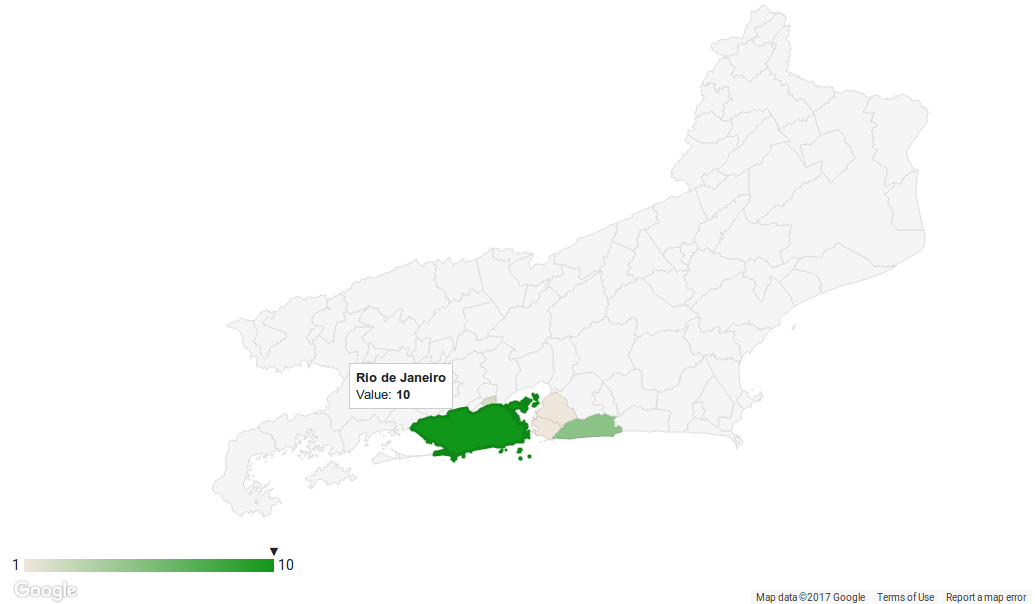
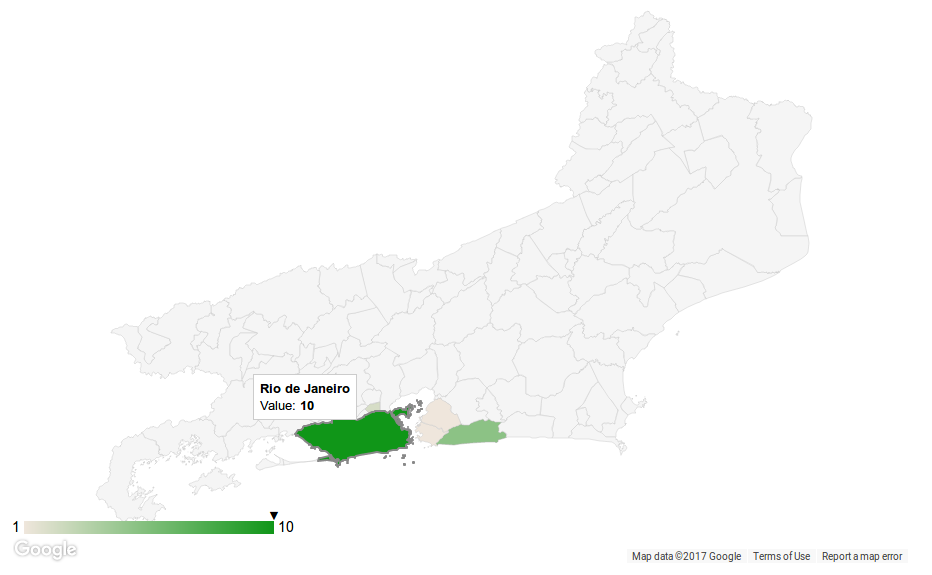
Updating `README.md` with usage and more one example image

diff --git a/README.md b/README.md
@@ -3,18 +3,81 @@ Geochart GeoJSON
 
 Create charts very similar to the [Google Charts geochart](https://developers.google.com/chart/interactive/docs/gallery/geochart), but with GeoJSON support.
 
-The Google Charts geochart is a very interesting project. However, it only generates predetermined maps (countries of the world, countries of a continent, states of a country). Althought there is possible to generate high resolution maps (cities of a state or metros of a city), these maps are only available for some specific USA regions.
+The Google Charts geochart is a very interesting project. However, it only generates predetermined maps.
 
-This project makes possible to draw geocharts in custom and high resolution maps thought GeoJSON.
+This project makes possible to draw geocharts in custom maps with boundaries defined using GeoJSON.
 
-The above printscreen shows a Geochart GeoJSON in the Rio de Janeiro state, in Brazil.
+The above printscreens show two examples: a Geochart GeoJSON of the Rio de Janeiro state (Brazil), and a Geochart GeoJSON of the Rio de Janeiro city (RJ, Brazil).
 
-![Geochart GeoJSON of Rio de Janeiro state, Brazil](readme_img/rio-state-chart-small.png)
+![Geochart GeoJSON of Rio de Janeiro state, Brazil](readme_img/rio-state-chart.png)
+![Geochart GeoJSON of Rio de Janeiro city, RJ, Brazil](readme_img/rio-city-chart.png)
 
 Requirements
 ------------
 
-To use this project you need to load the [Google Charts](https://developers.google.com/chart/interactive/docs/) and the [Google Maps API](https://developers.google.com/maps/documentation/javascript/tutorial) before.
+This project uses [Google Charts](https://developers.google.com/chart/interactive/docs/) and [Google Maps API](https://developers.google.com/maps/documentation/javascript/tutorial).
+
+Usage
+-----
+
+Using Geochart GeoJSON is somehow similar to using [Google Charts geochart](https://developers.google.com/chart/interactive/docs/gallery/geochart). The bigger difference is that Google Charts geochart requires you to inform a region to draw the map, while Geochart GeoJSON requires you to set some Google Maps params and a GeoJSON to draw the map.
+
+The follow example shows an HTML page that draws a Geochart GeoJSON of the Rio de Janeiro state (in Brazil).
+
+```html
+<html>
+  <head>
+    <meta charset="utf-8">
+    <title>Geochart GeoJSON example page</title>
+
+    <script type="text/javascript" src="https://www.gstatic.com/charts/loader.js"></script>
+    <script src="https://maps.googleapis.com/maps/api/js?key=AIzaSyD-9tSrke72PouQMnMX-a7eZSW0jkFMBWY"></script>
+    <script type="text/javascript" src="geochart-geojson.min.js"></script>
+
+    <script type="text/javascript">
+      google.charts.load("current");
+      google.charts.setOnLoadCallback(drawVisualization);
+
+      function drawVisualization() {
+
+        // Create and populate a data table
+        var data = new google.visualization.DataTable();
+        data.addColumn("string", "City");
+        data.addColumn("number", "Value");
+        data.addRows([
+          ["Rio de Janeiro", 10],
+          ["Maricá", 5],
+          ["São João de Meriti", 2],
+          ["Niterói", 1],
+          ["São Gonçalo", 1]
+        ]);
+
+        // Instantiate our Geochart GeoJSON object
+        var vis = new geochart_geojson.GeoChart(document.getElementById("mydiv"));
+
+        // Set Geochart GeoJSON options
+        var options = {
+          mapsOptions: {
+            center: {lat: -22.15, lng: -42.9},
+            zoom: 8
+          },
+          geoJson: "rio-state.geojson",
+          geoJsonOptions: {
+            idPropertyName: "name"
+          }
+        };
+
+        // Draw our Geochart GeoJSON with the data we created locally
+        vis.draw(data, options);
+      }
+    </script>
+  </head>
+
+  <body>
+    <div id="mydiv" style="width: 900px; height: 560px;"></div>
+  </body>
+</html>
+```
 
 Notes
 -----
